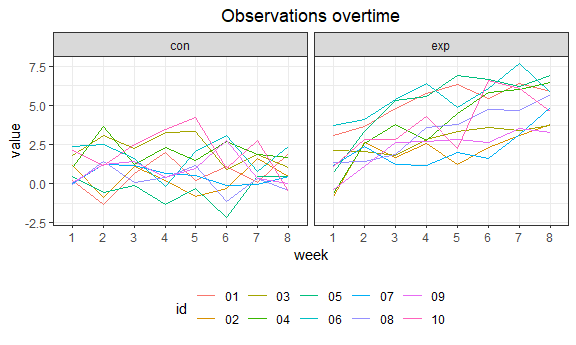
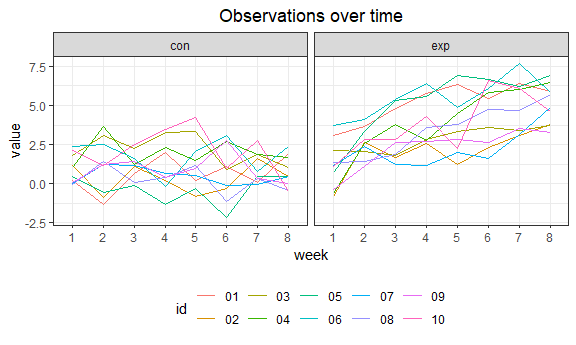
finish problem 3

Changed region(s): [[0.375, 0.029, 0.7188, 0.087]]

diff --git a/p8105_hw5_yl4359.md b/p8105_hw5_yl4359.md
@@ -48,231 +48,7 @@ iris_without_missing = map_dfr(iris_with_missing, replace_na)
 ``` r
 file_name = list.files(path = "./data")
 data_path = str_c("./data/", file_name)
-value = map_df(data_path, read_csv)
-```
-
-    ## Parsed with column specification:
-    ## cols(
-    ##   week_1 = col_double(),
-    ##   week_2 = col_double(),
-    ##   week_3 = col_double(),
-    ##   week_4 = col_double(),
-    ##   week_5 = col_double(),
-    ##   week_6 = col_double(),
-    ##   week_7 = col_double(),
-    ##   week_8 = col_double()
-    ## )
-    ## Parsed with column specification:
-    ## cols(
-    ##   week_1 = col_double(),
-    ##   week_2 = col_double(),
-    ##   week_3 = col_double(),
-    ##   week_4 = col_double(),
-    ##   week_5 = col_double(),
-    ##   week_6 = col_double(),
-    ##   week_7 = col_double(),
-    ##   week_8 = col_double()
-    ## )
-    ## Parsed with column specification:
-    ## cols(
-    ##   week_1 = col_double(),
-    ##   week_2 = col_double(),
-    ##   week_3 = col_double(),
-    ##   week_4 = col_double(),
-    ##   week_5 = col_double(),
-    ##   week_6 = col_double(),
-    ##   week_7 = col_double(),
-    ##   week_8 = col_double()
-    ## )
-    ## Parsed with column specification:
-    ## cols(
-    ##   week_1 = col_double(),
-    ##   week_2 = col_double(),
-    ##   week_3 = col_double(),
-    ##   week_4 = col_double(),
-    ##   week_5 = col_double(),
-    ##   week_6 = col_double(),
-    ##   week_7 = col_double(),
-    ##   week_8 = col_double()
-    ## )
-    ## Parsed with column specification:
-    ## cols(
-    ##   week_1 = col_double(),
-    ##   week_2 = col_double(),
-    ##   week_3 = col_double(),
-    ##   week_4 = col_double(),
-    ##   week_5 = col_double(),
-    ##   week_6 = col_double(),
-    ##   week_7 = col_double(),
-    ##   week_8 = col_double()
-    ## )
-    ## Parsed with column specification:
-    ## cols(
-    ##   week_1 = col_double(),
-    ##   week_2 = col_double(),
-    ##   week_3 = col_double(),
-    ##   week_4 = col_double(),
-    ##   week_5 = col_double(),
-    ##   week_6 = col_double(),
-    ##   week_7 = col_double(),
-    ##   week_8 = col_double()
-    ## )
-    ## Parsed with column specification:
-    ## cols(
-    ##   week_1 = col_double(),
-    ##   week_2 = col_double(),
-    ##   week_3 = col_double(),
-    ##   week_4 = col_double(),
-    ##   week_5 = col_double(),
-    ##   week_6 = col_double(),
-    ##   week_7 = col_double(),
-    ##   week_8 = col_double()
-    ## )
-    ## Parsed with column specification:
-    ## cols(
-    ##   week_1 = col_double(),
-    ##   week_2 = col_double(),
-    ##   week_3 = col_double(),
-    ##   week_4 = col_double(),
-    ##   week_5 = col_double(),
-    ##   week_6 = col_double(),
-    ##   week_7 = col_double(),
-    ##   week_8 = col_double()
-    ## )
-    ## Parsed with column specification:
-    ## cols(
-    ##   week_1 = col_double(),
-    ##   week_2 = col_double(),
-    ##   week_3 = col_double(),
-    ##   week_4 = col_double(),
-    ##   week_5 = col_double(),
-    ##   week_6 = col_double(),
-    ##   week_7 = col_double(),
-    ##   week_8 = col_double()
-    ## )
-    ## Parsed with column specification:
-    ## cols(
-    ##   week_1 = col_double(),
-    ##   week_2 = col_double(),
-    ##   week_3 = col_double(),
-    ##   week_4 = col_double(),
-    ##   week_5 = col_double(),
-    ##   week_6 = col_double(),
-    ##   week_7 = col_double(),
-    ##   week_8 = col_double()
-    ## )
-    ## Parsed with column specification:
-    ## cols(
-    ##   week_1 = col_double(),
-    ##   week_2 = col_double(),
-    ##   week_3 = col_double(),
-    ##   week_4 = col_double(),
-    ##   week_5 = col_double(),
-    ##   week_6 = col_double(),
-    ##   week_7 = col_double(),
-    ##   week_8 = col_double()
-    ## )
-    ## Parsed with column specification:
-    ## cols(
-    ##   week_1 = col_double(),
-    ##   week_2 = col_double(),
-    ##   week_3 = col_double(),
-    ##   week_4 = col_double(),
-    ##   week_5 = col_double(),
-    ##   week_6 = col_double(),
-    ##   week_7 = col_double(),
-    ##   week_8 = col_double()
-    ## )
-    ## Parsed with column specification:
-    ## cols(
-    ##   week_1 = col_double(),
-    ##   week_2 = col_double(),
-    ##   week_3 = col_double(),
-    ##   week_4 = col_double(),
-    ##   week_5 = col_double(),
-    ##   week_6 = col_double(),
-    ##   week_7 = col_double(),
-    ##   week_8 = col_double()
-    ## )
-    ## Parsed with column specification:
-    ## cols(
-    ##   week_1 = col_double(),
-    ##   week_2 = col_double(),
-    ##   week_3 = col_double(),
-    ##   week_4 = col_double(),
-    ##   week_5 = col_double(),
-    ##   week_6 = col_double(),
-    ##   week_7 = col_double(),
-    ##   week_8 = col_double()
-    ## )
-    ## Parsed with column specification:
-    ## cols(
-    ##   week_1 = col_double(),
-    ##   week_2 = col_double(),
-    ##   week_3 = col_double(),
-    ##   week_4 = col_double(),
-    ##   week_5 = col_double(),
-    ##   week_6 = col_double(),
-    ##   week_7 = col_double(),
-    ##   week_8 = col_double()
-    ## )
-    ## Parsed with column specification:
-    ## cols(
-    ##   week_1 = col_double(),
-    ##   week_2 = col_double(),
-    ##   week_3 = col_double(),
-    ##   week_4 = col_double(),
-    ##   week_5 = col_double(),
-    ##   week_6 = col_double(),
-    ##   week_7 = col_double(),
-    ##   week_8 = col_double()
-    ## )
-    ## Parsed with column specification:
-    ## cols(
-    ##   week_1 = col_double(),
-    ##   week_2 = col_double(),
-    ##   week_3 = col_double(),
-    ##   week_4 = col_double(),
-    ##   week_5 = col_double(),
-    ##   week_6 = col_double(),
-    ##   week_7 = col_double(),
-    ##   week_8 = col_double()
-    ## )
-    ## Parsed with column specification:
-    ## cols(
-    ##   week_1 = col_double(),
-    ##   week_2 = col_double(),
-    ##   week_3 = col_double(),
-    ##   week_4 = col_double(),
-    ##   week_5 = col_double(),
-    ##   week_6 = col_double(),
-    ##   week_7 = col_double(),
-    ##   week_8 = col_double()
-    ## )
-    ## Parsed with column specification:
-    ## cols(
-    ##   week_1 = col_double(),
-    ##   week_2 = col_double(),
-    ##   week_3 = col_double(),
-    ##   week_4 = col_double(),
-    ##   week_5 = col_double(),
-    ##   week_6 = col_double(),
-    ##   week_7 = col_double(),
-    ##   week_8 = col_double()
-    ## )
-    ## Parsed with column specification:
-    ## cols(
-    ##   week_1 = col_double(),
-    ##   week_2 = col_double(),
-    ##   week_3 = col_double(),
-    ##   week_4 = col_double(),
-    ##   week_5 = col_double(),
-    ##   week_6 = col_double(),
-    ##   week_7 = col_double(),
-    ##   week_8 = col_double()
-    ## )
-
-``` r
+value = map2_df(.x = data_path, .y = "dddddddd", ~read_csv(file = .x, col_types = .y))
 data = cbind(file_name, value)
 ```
 
@@ -283,21 +59,100 @@ new_data = data %>%
   separate(file_name, into = c("group", "id"), sep = "_") %>% 
   mutate(id = str_replace(id, ".csv", "")) %>% 
   pivot_longer(week_1:week_8, names_to = "week", values_to = "value") %>% 
-  mutate(week = str_replace(week, "week_", ""))
+  mutate(week = str_replace(week, "week_", "")) 
 ```
 
-## make a plot
+## Make a plot
 
 ``` r
 new_data %>% 
   ggplot(aes(x = week, y = value, group = id, color = id)) + 
   geom_line() +
   facet_grid(~group) +
-  labs(title = "Observations overtime") +
+  labs(title = "Observations over time") +
   scale_color_hue()
 ```
 
 <img src="p8105_hw5_yl4359_files/figure-gfm/unnamed-chunk-6-1.png" width="90%" />
 
-In control group, the observation values not have large change overtime,
-while in experiment group, the observation values increased over time.
+In the control group, the observation values did not have great change
+over time, while in the experiment group, the observation values
+increased over time.
+
+# Problem 3
+
+## Write a function
+
+``` r
+sim_regression = function(n = 30, beta0 = 2, beta1) {
+  
+  sim_data = tibble(
+    x = rnorm(n, mean = 0, sd = 1),
+    y = beta0 + beta1 * x + rnorm(n, mean = 0, sd = sqrt(50))
+  )
+  
+  ls_fit = lm(y ~ x, data = sim_data) %>% 
+    broom::tidy()
+  
+  tibble(
+    beta1_hat = ls_fit[[2]][2],
+    p_value = ls_fit[[5]][2]
+  )
+}
+```
+
+``` r
+sim_results = 
+  tibble(beta1_value = c(0, 1, 2, 3, 4, 5, 6)) %>% 
+  mutate(
+    output_lists = map(.x = beta1_value, ~rerun(10000, sim_regression(beta1 = .x))),
+    estimate_dfs = map(output_lists, bind_rows)) %>% 
+  select(-output_lists) %>% 
+  unnest(estimate_dfs)
+```
+
+``` r
+sim_results %>% 
+  group_by(beta1_value) %>% 
+  summarize(power = sum(p_value < 0.05)/10000) %>% 
+  ggplot(aes(x = beta1_value, y = power)) + 
+  geom_point() +
+  geom_line() +
+  labs(title = expression('Relationship between power and '*beta[1]),
+       x = expression(beta[1]),
+       y = "Power")
+```
+
+<img src="p8105_hw5_yl4359_files/figure-gfm/unnamed-chunk-9-1.png" width="90%" />
+
+``` r
+sim_results %>% 
+  group_by(beta1_value) %>% 
+  summarize(mean_beta1_hat1 = mean(beta1_hat)) %>% 
+  ggplot(aes(x = beta1_value, y = mean_beta1_hat1)) + 
+  geom_point() +
+  geom_line() +
+  labs(title = expression('Relationship between '*beta[1]*' and '*hat(beta)[1]),
+       x = expression(beta[1]),
+       y = expression(hat(beta)[1]))
+```
+
+<img src="p8105_hw5_yl4359_files/figure-gfm/unnamed-chunk-10-1.png" width="90%" />
+
+``` r
+sim_results %>% 
+  group_by(beta1_value) %>% 
+  filter(p_value < 0.05) %>% 
+  summarize(mean_beta1_hat2 = mean(beta1_hat)) %>% 
+  ggplot(aes(x = beta1_value, y = mean_beta1_hat2)) + 
+  geom_point() +
+  geom_line() +
+  labs(title = expression('Relationship between '*beta[1]*' and '*hat(beta)[1]*' (the null is rejected)'),
+       x = expression(beta[1]),
+       y = expression(hat(beta)[1]*' (the null is rejected)'))
+```
+
+<img src="p8105_hw5_yl4359_files/figure-gfm/unnamed-chunk-11-1.png" width="90%" />
+
+The sample average of \(\hat\beta_1\) across tests for which the null is
+rejected don’t approximately equal to the true value of \(\beta_1\).
